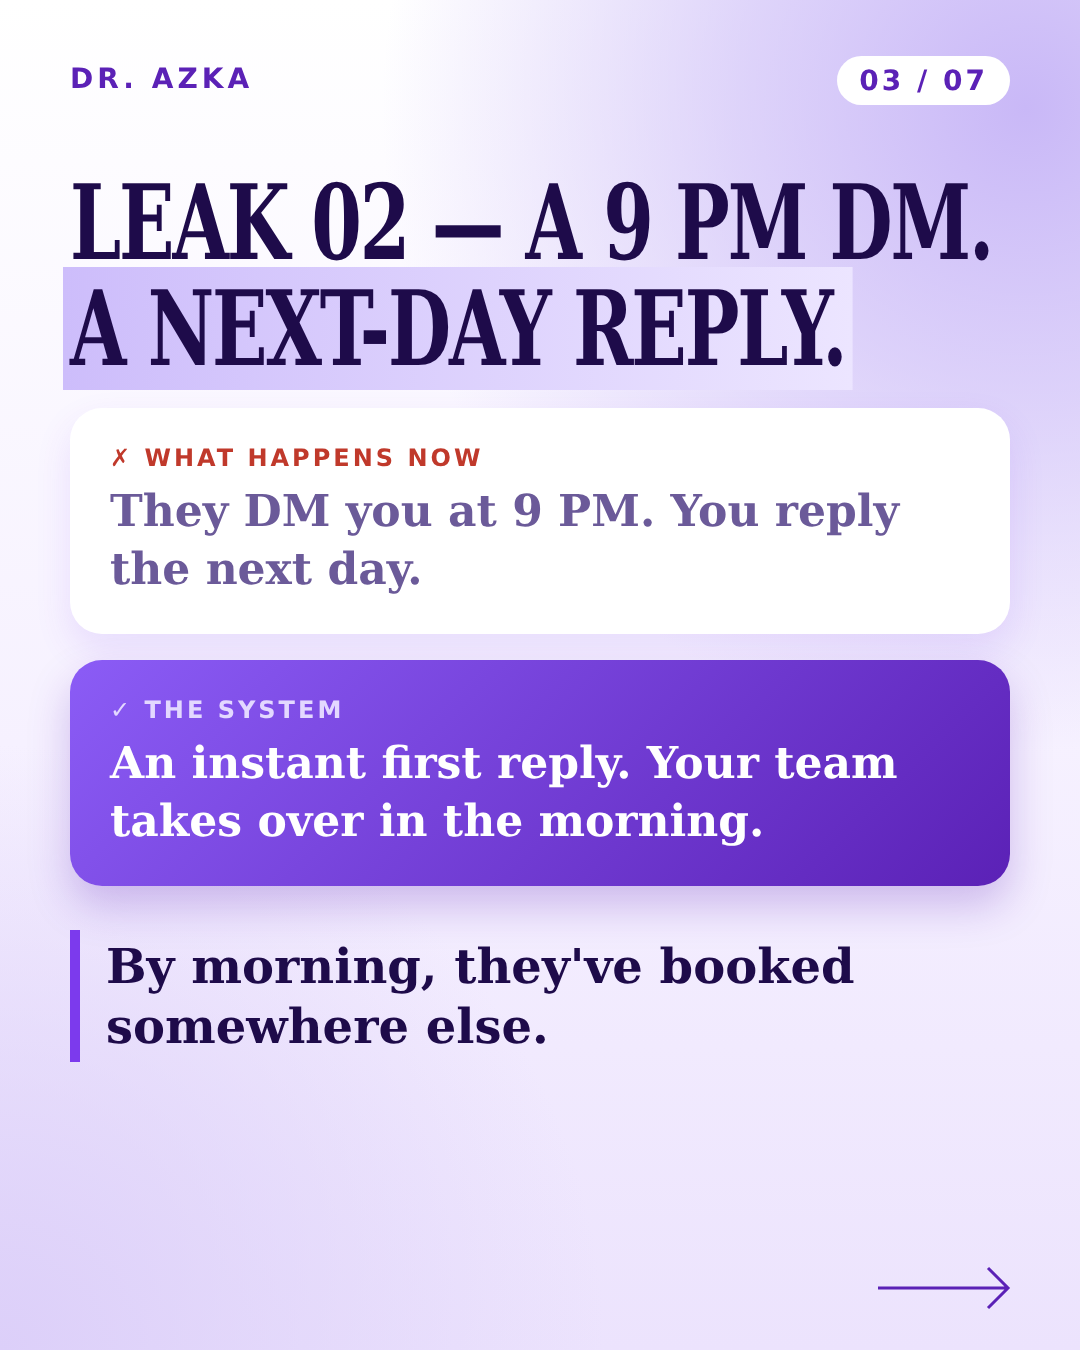
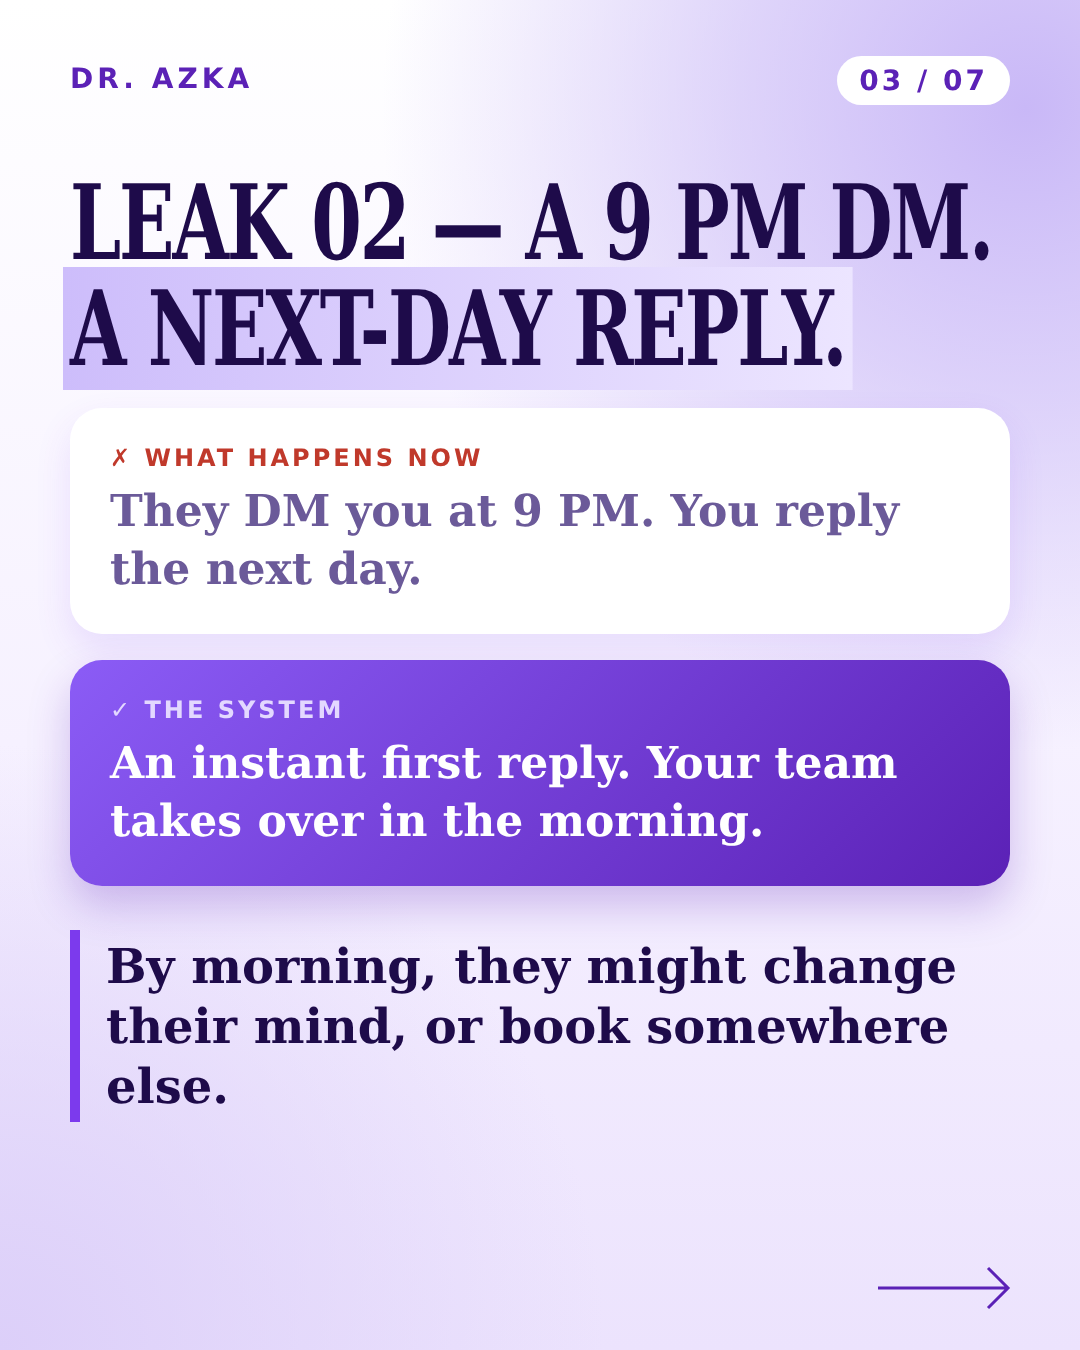
Carousel 3: soften leak 02 punch line
Claude-Session: https://claude.ai/code/session_01FWPPE9U11P2MJTAp1qa8Bz

Changed region(s): [[0.0611, 0.6844, 0.8861, 0.84]]

diff --git a/carousels/2026-11-05-c3/slides.html b/carousels/2026-11-05-c3/slides.html
@@ -20,7 +20,7 @@
 <svg width="0" height="0" style="position:absolute"><defs><symbol id="arr" viewBox="0 0 136 44"><path d="M0 22H130M110 2l20 20-20 20" stroke="#5b21b6" stroke-width="3" fill="none"/></symbol></defs></svg>
 <div class="slide" id="s1"><div class="brand">DR. AZKA</div><div class="count">01 / 07</div><div class="content"><div style="margin-top:110px"></div><div class="hwrap"><h1 style="font-size:132px">THIS IS WHY<br>YOUR CLINIC<br>KEEPS <span class="hl">LEAKING</span><br><span class="hl">PATIENTS.</span></h1></div><div class="bar" style="margin-top:70px">5 systems most clinics don't have.</div></div><svg class="arrow"><use href="#arr"/></svg></div>
 <div class="slide" id="s2"><div class="brand">DR. AZKA</div><div class="count">02 / 07</div><div class="content"><div class="hwrap"><h1>LEAK 01 — A MISSED<br><span class="hl">CALL. NO TEXT BACK.</span></h1></div><div class="x"><div class="lab">✗ What happens now</div><div class="t">Your front desk misses a call, or it comes after hours. Nobody texts back.</div></div><div class="v"><div class="lab">✓ The system</div><div class="t">An automatic text within 60 seconds.</div><div class="q">"Sorry we missed you! How can we help? 🙂"</div></div><div class="punch">A patient who can't reach you calls the next clinic.</div></div><svg class="arrow"><use href="#arr"/></svg></div>
-<div class="slide" id="s3"><div class="brand">DR. AZKA</div><div class="count">03 / 07</div><div class="content"><div class="hwrap"><h1>LEAK 02 — A 9 PM DM.<br><span class="hl">A NEXT-DAY REPLY.</span></h1></div><div class="x"><div class="lab">✗ What happens now</div><div class="t">They DM you at 9 PM. You reply the next day.</div></div><div class="v"><div class="lab">✓ The system</div><div class="t">An instant first reply. Your team takes over in the morning.</div></div><div class="punch">By morning, they've booked somewhere else.</div></div><svg class="arrow"><use href="#arr"/></svg></div>
+<div class="slide" id="s3"><div class="brand">DR. AZKA</div><div class="count">03 / 07</div><div class="content"><div class="hwrap"><h1>LEAK 02 — A 9 PM DM.<br><span class="hl">A NEXT-DAY REPLY.</span></h1></div><div class="x"><div class="lab">✗ What happens now</div><div class="t">They DM you at 9 PM. You reply the next day.</div></div><div class="v"><div class="lab">✓ The system</div><div class="t">An instant first reply. Your team takes over in the morning.</div></div><div class="punch">By morning, they might change their mind, or book somewhere else.</div></div><svg class="arrow"><use href="#arr"/></svg></div>
 <div class="slide" id="s4"><div class="brand">DR. AZKA</div><div class="count">04 / 07</div><div class="content"><div class="hwrap"><h1>LEAK 03 — "HOW<br>MUCH?" <span class="hl">JUST A</span><br><span class="hl">PRICE BACK.</span></h1></div><div class="x"><div class="lab">✗ What happens now</div><div class="t">Someone asks the price. You reply with only the price.</div></div><div class="v"><div class="lab">✓ The system</div><div class="t">A price range + one question + two appointment times.</div></div><div class="punch">Price-only replies get compared. Helpful replies get booked.</div></div><svg class="arrow"><use href="#arr"/></svg></div>
 <div class="slide" id="s5"><div class="brand">DR. AZKA</div><div class="count">05 / 07</div><div class="content"><div class="hwrap"><h1>LEAK 04 — "I'LL THINK<br><span class="hl">ABOUT IT." SILENCE.</span></h1></div><div class="x"><div class="lab">✗ What happens now</div><div class="t">They say "I'll think about it." You stay silent.</div></div><div class="v"><div class="lab">✓ The system</div><div class="t">Follow up on day 3, 7 and 21. Then stop.</div><div class="days"><div>DAY 3</div><div>DAY 7</div><div>DAY 21</div><div class="stop">STOP</div></div></div><div class="punch">"I'll think about it" isn't a no. It's a not yet.</div></div><svg class="arrow"><use href="#arr"/></svg></div>
 <div class="slide" id="s6"><div class="brand">DR. AZKA</div><div class="count">06 / 07</div><div class="content"><div class="hwrap"><h1>LEAK 05 — TREATED<br><span class="hl">ONCE. NEVER</span><br><span class="hl">CONTACTED AGAIN.</span></h1></div><div class="x"><div class="lab">✗ What happens now</div><div class="t">Treatment done. No message, ever again.</div></div><div class="v"><div class="lab">✓ The system</div><div class="t">A rebooking reminder timed to the treatment.</div></div><div class="punch">Your easiest new patient is one you already treated.</div></div><svg class="arrow"><use href="#arr"/></svg></div>
